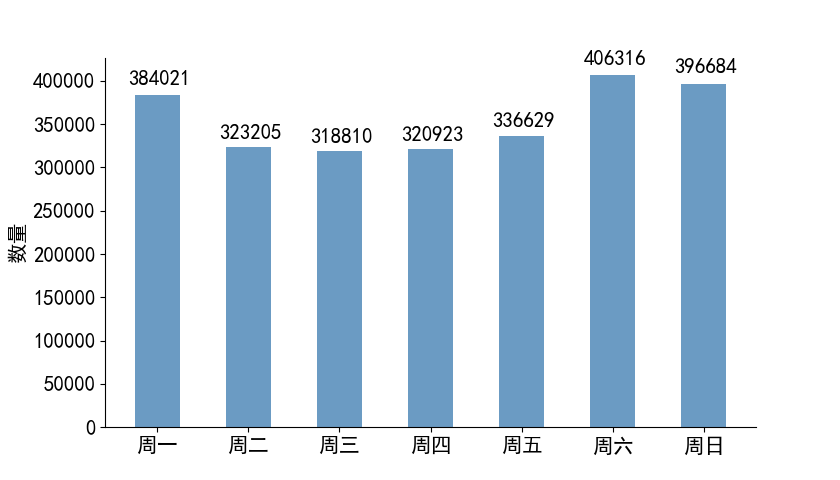
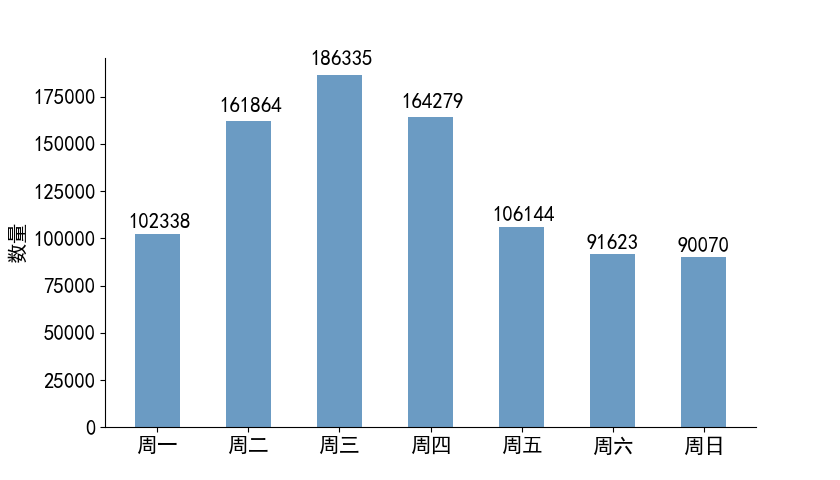
upgrade report data

diff --git a/HelinConsoleApp/Program.cs b/HelinConsoleApp/Program.cs
@@ -80,9 +80,9 @@ namespace HelinConsoleApp
             var Gross_Load_Div = new int[] { 0, 10_000, 20_000, 30_000 };
             var Gross_Load_Dist = new List<int>();
 
-            var StartDataTime = new DateTime(2019, 12, 21, 0, 0, 0);
-            var FinishDataTime = new DateTime(2020, 1, 21, 0, 0, 0);
-
+            var StartDataTime = new DateTime(2020, 1, 21, 0, 0, 0);
+            var FinishDataTime = new DateTime(2020, 2, 21, 0, 0, 0);
+            int FirstMonth = StartDataTime.Month;int NextMonth = FinishDataTime.Month;
 
             //Expression<Func<HS_Data_201908, bool>> dataPredicate = x => x.HSData_DT >= StartDataTime && x.HSData_DT <= FinishDataTime;
 
@@ -92,7 +92,7 @@ namespace HelinConsoleApp
                 {
                     #region HS_DataForAnalysis
                     var HS_DataForAnalysis = (
-                        from c in db.HS_Data_201912
+                        from c in db.HS_Data_202001
                         select new MyHS_Data
                         {
                             Acceleration = c.Acceleration,
@@ -135,7 +135,7 @@ namespace HelinConsoleApp
                             Gross_Load = c.Gross_Load
                         }
                         ).Union(
-                        from e in db.HS_Data_202001
+                        from e in db.HS_Data_202002
                         select new MyHS_Data
                         {
                             Acceleration = e.Acceleration,
@@ -185,8 +185,10 @@ namespace HelinConsoleApp
 
                     IEnumerable<DailyTraffic> dailyTrafficData = DataProcessing.GetDailyTraffic(table, StartDataTime, FinishDataTime);
                     //var cc = table.Where(x => EntityFunctions.TruncateTime(x.HSData_DT)>= EntityFunctions.TruncateTime(StartDataTime)).Count();
-                   
+
+                    //每日交通流量信息数据导入excel
                     var temp1 = ExportToExcelHelper.ExportDailyTrafficVolume(dailyTrafficData.ToList());
+                    
                     //重量前10的车辆数据导入excel
                     List <MyHS_Data> data = table.Where(dataPredicate).OrderByDescending(x => x.Gross_Load).Take(10).ToList();
                     var temp = ExportToExcelHelper.ExportTopGrossLoad(data);
@@ -376,16 +378,16 @@ namespace HelinConsoleApp
                     }
 
                     //周一至周日车辆数分布
-                    var Week_Div = new int[] { 2, 3, 4, 5, 6, 0, 1 };    //上一个月份
-                    var Week_Div2 = new int[] { 6, 0, 1, 2, 3, 4, 5 };    //这个月份
+                    var Week_Div = new int[] { 6, 0, 1, 2, 3, 4, 5 };    //上一个月份余数
+                    var Week_Div2 = new int[] { 3, 4, 5, 6, 0, 1, 2};    //这个月份余数
                     var Week_Dist = new List<int>();
 
                     for (int i = 0; i < Week_Div.Length; i++)
                     {
                         t1 = Week_Div[i];
                         t2 = Week_Div2[i];
-                        Week_Dist.Add(table.Where(x => (x.HSData_DT.Value.Day % 7 == t1 && x.HSData_DT.Value.Month == 12)
-                        || (x.HSData_DT.Value.Day % 7 == t2 && x.HSData_DT.Value.Month == 1)).Where(dataPredicate).Count());
+                        Week_Dist.Add(table.Where(x => (x.HSData_DT.Value.Day % 7 == t1 && x.HSData_DT.Value.Month == FirstMonth)
+                        || (x.HSData_DT.Value.Day % 7 == t2 && x.HSData_DT.Value.Month == NextMonth)).Where(dataPredicate).Count());
                         Console.WriteLine(Week_Dist[i]);
                     }
                     try

diff --git a/PythonApplication/PythonApplication.py b/PythonApplication/PythonApplication.py
@@ -99,12 +99,12 @@ def plotItem(plt,itemChosen):
     #不同小时平均车速
     #不同时间>40t车辆数
     y_dataList=[
-    [2466937,17305,1970,376],
-    [555882,727510,655385,547811],
-    [368992,915356,1177546,24694],
-    [384021,323205,318810,320923,336629,406316,396684],
-    [76436,41453,36264,168533,283727,289617,279444,311993,311057,274101,248725,165238],
-    [58.1,59.6,59.0,49.8,42.3,42.6,47.8,41.8,40.0,43.4,48.7,53.3],
+    [896512,6057,72,12],
+    [190721,262277,244212,205443],
+    [15851,163733,665984,57085],
+    [102338,161864,186335,164279,106144,91623,90070],
+    [14320,6009,6976,59927,125594,109338,103290,128203,142634,104783,63927,37652],
+    [60.5,60.9,58.8,57.3,56.0,55.8,57.4,55.2,54.2,54.3,55.7,58.3],
     [5,6,6,0,1,1,1,5,3,2,6,11]
     ]
 
